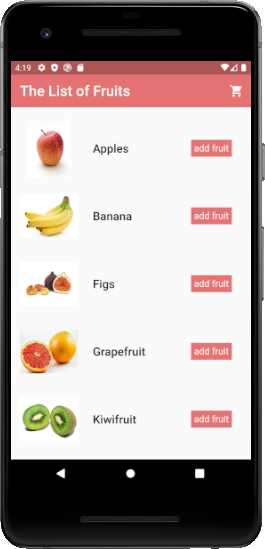
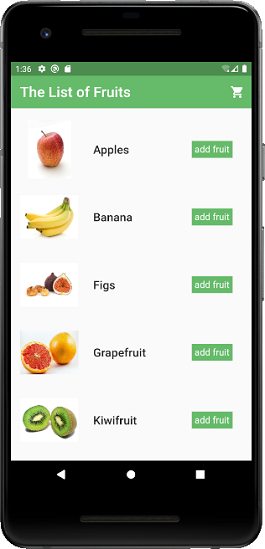
screenshots were changed

diff --git a/lib/screens/cart_screen.dart b/lib/screens/cart_screen.dart
@@ -12,10 +12,10 @@ class MyCart extends StatelessWidget {
           'Cart',
           style: Theme.of(context).textTheme.display4,
         ),
-        backgroundColor: Colors.red[300],
+        backgroundColor: Colors.green[400],
       ),
       body: Container(
-        color: Colors.red[300],
+        color: Colors.green[400],
         child: Column(
           children: [
             Expanded(

diff --git a/lib/widgets/list/add_button.dart b/lib/widgets/list/add_button.dart
@@ -28,7 +28,7 @@ class AddButton extends StatelessWidget {
                   )
                 : Container(
                     padding: EdgeInsets.all(5),
-                    color: Colors.red[300],
+                    color: Colors.green[400],
                     child: Text(
                       'add fruit',
                       style: textTheme,

diff --git a/lib/widgets/cart/cart_total.dart b/lib/widgets/cart/cart_total.dart
@@ -30,7 +30,7 @@ class CartTotal extends StatelessWidget {
               color: Colors.white,
               child: Text(
                 'Buy',
-                style: TextStyle(color: Colors.red[500]),
+                style: TextStyle(color: Colors.green[500]),
               ),
             ),
           ],

diff --git a/lib/widgets/list/my_app_bar.dart b/lib/widgets/list/my_app_bar.dart
@@ -6,7 +6,7 @@ class MyAppBar extends StatelessWidget {
     var textTheme1 = Theme.of(context).textTheme.display4;
 
     return SliverAppBar(
-      backgroundColor: Colors.red[300],
+      backgroundColor: Colors.green[400],
       title: Text(
         'The List of Fruits',
         style: textTheme1,

diff --git a/lib/models/super_model.dart b/lib/models/super_model.dart
@@ -5,6 +5,7 @@ import 'list_model.dart';
 class SuperModel extends Model with CartModel, ListModel {
   SuperModel._privateConstructor();
 
+//here will be only one instance of this object.
   static final SuperModel _instance = SuperModel._privateConstructor();
 
   static SuperModel get instance {

diff --git a/lib/models/cart_model.dart b/lib/models/cart_model.dart
@@ -2,6 +2,8 @@ import 'list_model.dart';
 
 import 'fruits_object.dart';
 
+// In this way the CartModel extends a ListModel,
+// now CartModel has access to all the methods of the ListModel
 class CartModel extends ListModel {
   final List<int> _fruitIds = [];
 

diff --git a/lib/style/my_app_theme.dart b/lib/style/my_app_theme.dart
@@ -1,7 +1,7 @@
 import 'package:flutter/material.dart';
 
 final myAppTheme = ThemeData(
-  primarySwatch: Colors.red,
+  primarySwatch: Colors.green,
   textTheme: TextTheme(
     display4: TextStyle(
       fontFamily: 'Arimo',
